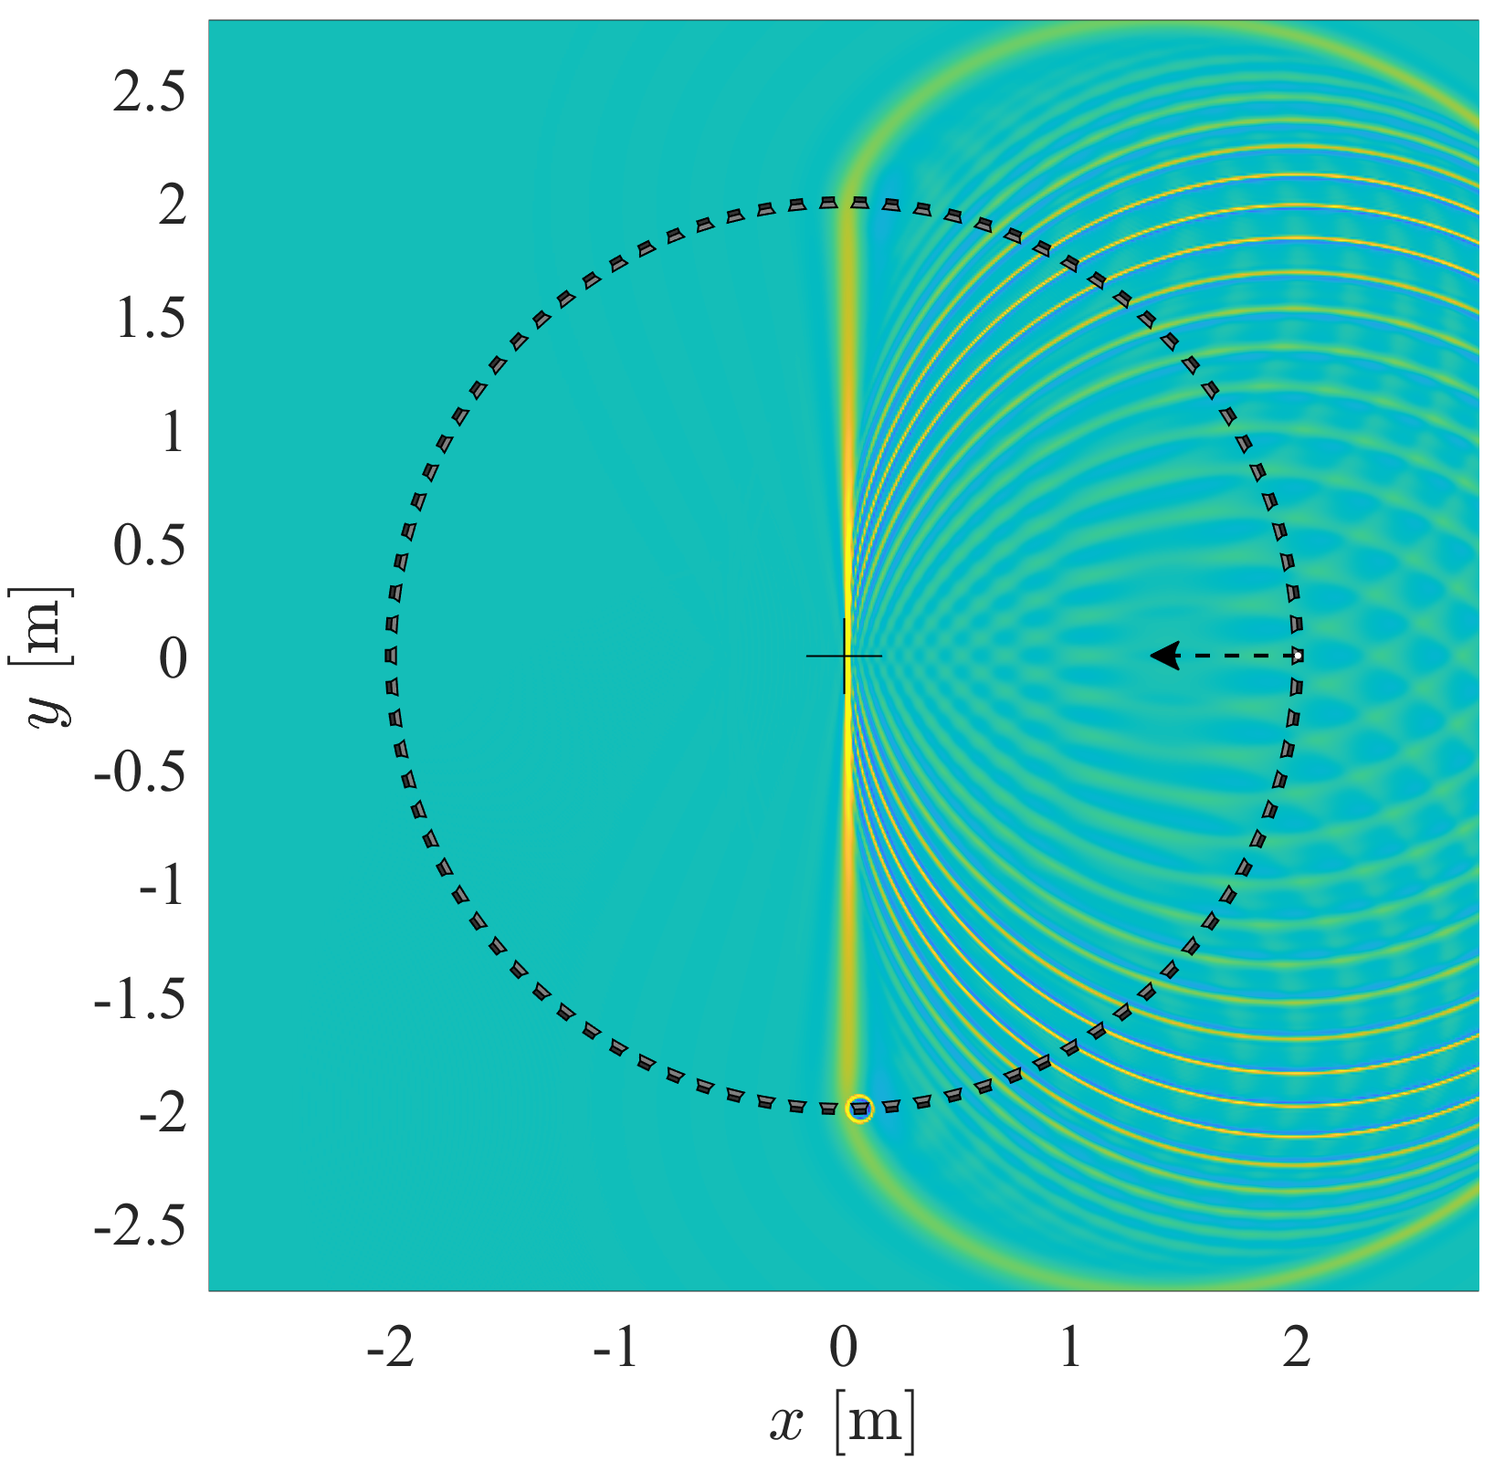
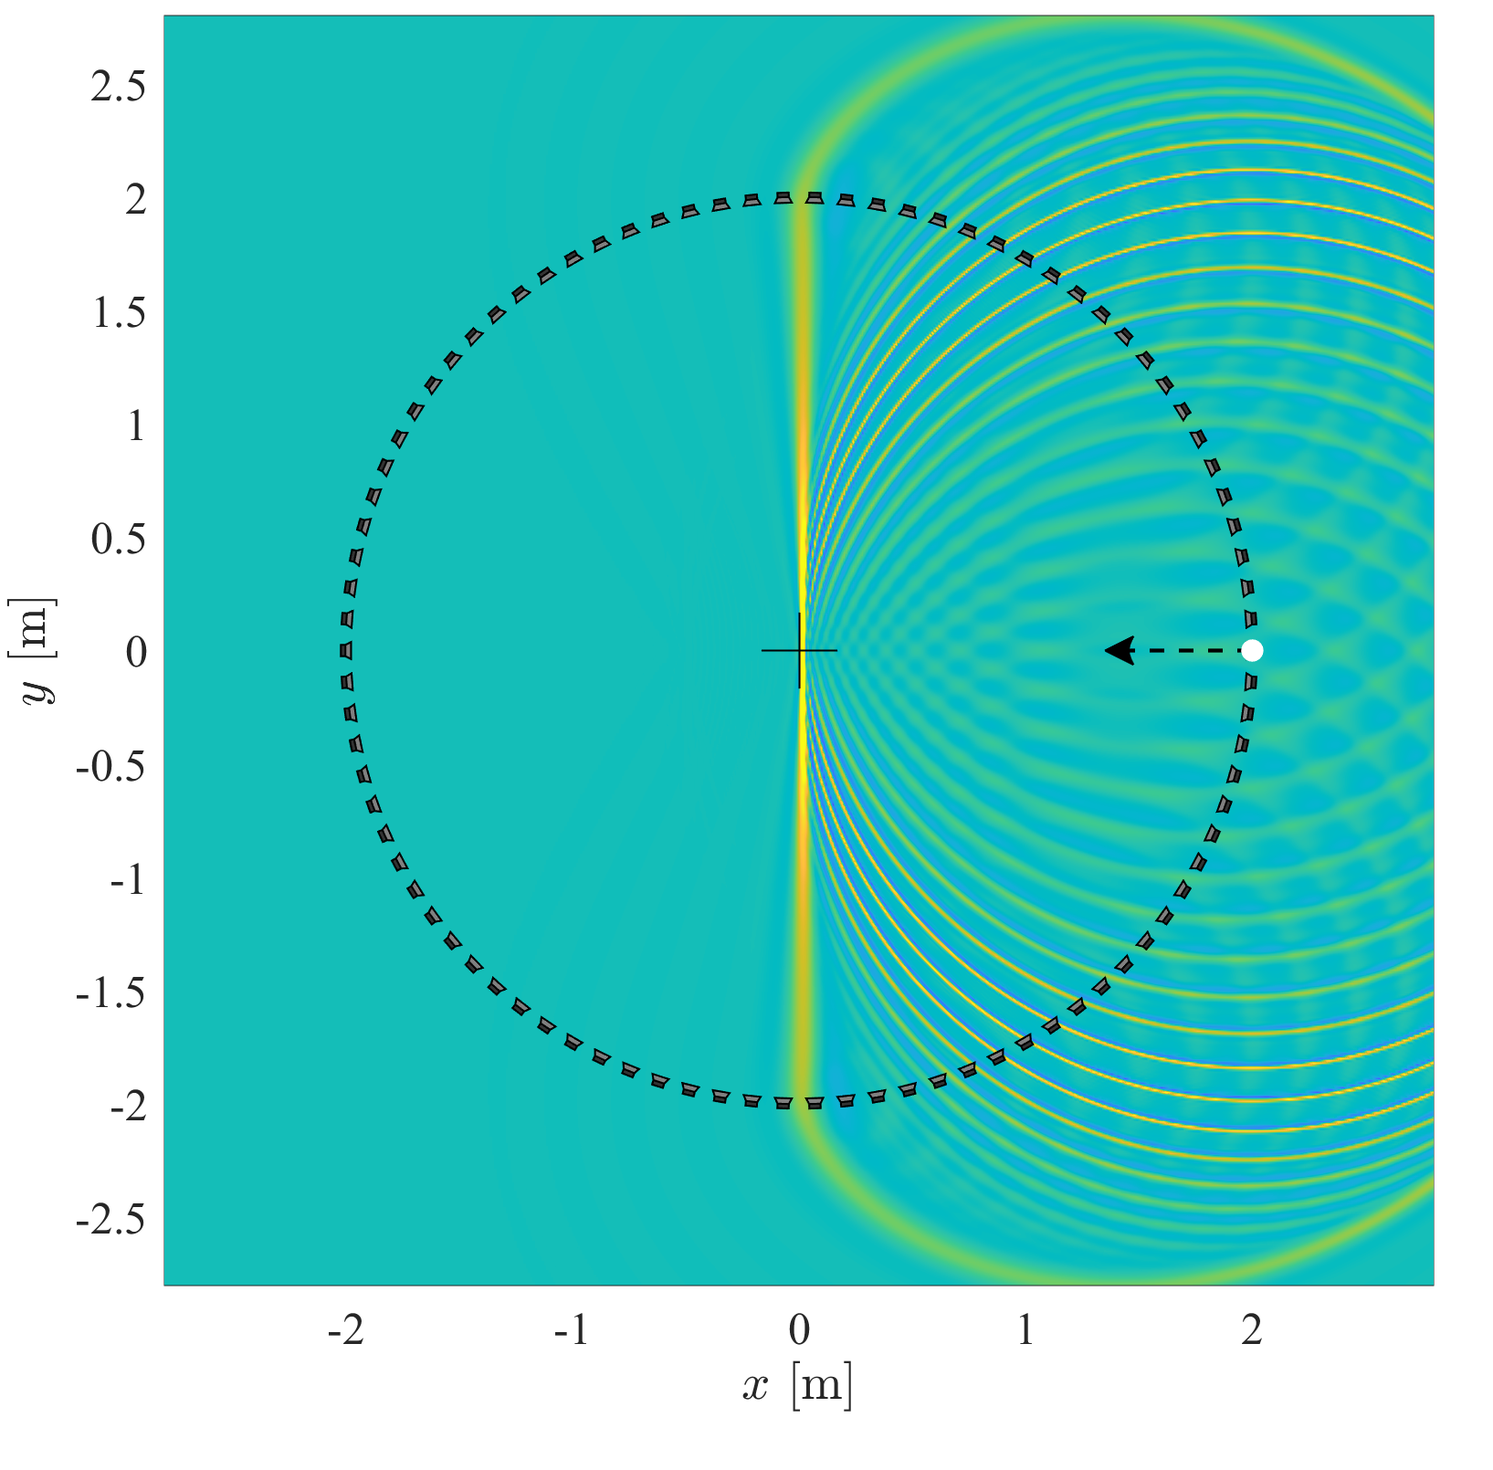
revision1

Changed region(s): [[0.0624, 0.0, 0.9982, 0.9938], [0.0, 0.4037, 0.0624, 0.4969]]

diff --git a/paper/main.tex b/paper/main.tex
@@ -66,7 +66,21 @@
 \section{Introduction}
 The aim of sound field synthesis is to reproduce a virtual target sound field over an extended listening area using a densely spaced loudspeaker arrangement, known as the secondary source distribution (SSD).
 By feeding the loudspeakers with specific driving functions, the superposition of sound fields from each SSD element should ideally match the target sound field in the intended receiving area.
-One prominent sound field synthesis method is Wave Field Synthesis (WFS) \cite{Berkhout1993:Acoustic_control_by_WFS, Start1997:phd}.%, which obtains the necessary driving functions from a suitable boundary integral representation of the target sound field.
+One prominent sound field synthesis method is Wave Field Synthesis (WFS) \cite{Berkhout1993:Acoustic_control_by_WFS, Start1997:phd}. 
+
+As WFS obtains the necessary driving functions from a suitable boundary integral representation of the target sound field, perfect phase correct field-reconstruction could be only achieved by employing a theoretical, continuous secondary source distribution.
+In practical applications the SSD constist of discrete loudspeaker elements, resulting in secondary wavefronts additionally to the intended virtual wavefront, emerging from the individual SSD elements, termed as aliasing waves.
+This spatial aliasing phenomena is perceived as the coloration of the synthesized sound field above the spatial aliasing frequency, varying with the listening position and the virtual wavefront direction, heavily degrading the quality of reproduction.
+
+The effect of aliasing can be mitigated by restricting the synthesis to a smaller control region inside the listening area at the cost of permitting stronger aliasing artifacts outside the control region.
+These anti-aliased WFS approaches are commonly referred to as Local Wave Field Synthesis (LWFS).
+Conventional LWFS approaches achieve increased local synthesis accuracy by the direct spatial bandlimitation of the WFS driving functions \cite{}.
+However, due to the high computational demand the real-time application of these LWFS approaches is not straightforward.
+
+The present contribution introduces a novel LWFS approach, relying merely on the temporal bandlimitation of the SSD driving functions.
+The temporal filters, defined uniquely for each SSD elements, are obtained from spatial antialiasing filters by means of an analytical spatial-to-temporal filter transformation, introduced by the current authors in a previous contribution \cite{firtha_daga}.
+Similarly to other LWFS techniques, the presented approach ensures aliasing-free synthesis at a predefined listening position at the cost of temporally bandlimited sound field at other listening regions.
+The results of the proposed approach are compared with a conventional LWFS approach employing direct spatial bandlimitation.
 
 \section{Theoretical basics}
 \subsection{The local propagation vector:}
@@ -95,13 +109,13 @@ The gradient of the eikonal is termed as the local propagation vector
 \begin{equation}
     \hat{\vk}^P(\vx) = \posvec{3}{\hat{k}_x^P(\vx)}{\hat{k}_y^P(\vx)}{\hat{k}_z^P(\vx)} = c \nabla \tau(\vx,\omega).
 \end{equation}
-In steady-state, the local propagation vector is perpendicular to the wavefront (equiphase positions) at an arbitrary location with unit length pointing towards the local propagation direction \cite{Firtha2016}.
+In steady-state, the local propagation vector is perpendicular to the wavefront (equiphase positions) at an arbitrary location of unit length pointing towards the local propagation direction \cite{Firtha2016}.
 In the temporal domain it points into the local propagation direction at the time instant of the wavefront passby.
 
 %For simplicity, in the followings we assume that all the involved fields propagate horizontally in the plane of investigation, i.e. $\hat{k}_z^P(x,y,0) = 0$.
 
 \subsection{Conventional 2.5D Wave Field Synthesis}
-Consider a smooth convex secondary source distribution located at $\vxo = \posvec{3}{x_0}{y_0}{0}$ consisting of a continuous distribution of 3D point sources, described by the 3D Green's function.
+Consider a smooth convex secondary source distribution located at $\vxo = \posvec{3}{x_0}{y_0}{0}$ consisting of a continuous distribution of 3D point sources, described by the 3D freefield Green's function.
 In this geometry the target field inside the area bounded by the SSD is described by the  Kirchhoff approximation of 2.5D Kirchhoff-Helmholtz integral, from which the 2.5D driving functions can be extracted.
 For an arbitrary simple target virtual sound field $P(\vxo,\omega)$ the steady-state driving functions read as \cite{Firtha2016}
 \begin{equation}
@@ -134,7 +148,7 @@ and in the time domain as
     \label{eq:d_wfs_td}
 \end{equation}
 with $A^D(\vxo)$ being the real valued overall gain factor of the driving function, $\ast_t$ denoting temporal convolution and $h_{\text{pre}}(t)$ is the temporal WFS prefilter impulse response.
-For an analytic FIR pre-equalization filter implementation the reader is referred to \cite{Schultz2016}.
+The analytical pre-equalization filter impulse response is given in \cite{Deregowski1983, Firtha2019phd}, while for an ideal FIR filter implementation the reader is referred to \cite{Schultz2016}.
 In the following due to the associativity of convolution this prefiltering is excluded from the discussion.
 
 \subsection{Aliasing artifacts in WFS}
@@ -155,7 +169,8 @@ In the following due to the associativity of convolution this prefiltering is ex
             \footnotesize \put(0,0){(d)}
         \end{overpic}
     \end{center}
-    \caption{fg}
+    \caption{The synthesized field and the spatial spectrum of the driving function in case of ideal, quasi-continuous SSD (a) and (c), and in case of a discretized SSD (b) and (d).
+    It is important ot note that the spatial spectrum depicts only the non-zero Fourier components (i.e. the Fourier series coefficients) normalized to the sampling wavenumber.}
     \label{Fig:aliasing}
 \end{figure*}
 Conventional WFS theory assumes a continuous secondary source distribution.
@@ -163,7 +178,7 @@ In practical applications the SSD is composed of evenly spaced discrete source e
 As a result, \emph{aliasing wavefronts} emerge from the individual secondary sources, following the intended virtual wavefront, leading to a \emph{spatial aliasing phenomena}.
 Although localization does not degrade due to the precedence effect, aliasing is perceived as strong coloration predominantly in the high-frequency region varying with the receiver position and the virtual source position/direction, occurring predominantly above the \emph{aliasing frequency}.
 
-Figure \ref{Fig:aliasing} illustrates spatial aliasing in the temporal domain through the example of the synthesis of an impulsive plane wave, arriving from $\phi_{\mathrm{PW}} = 0^{\circ}$, applying a discrete secondary source distribution in comparement with a quasi-continuous synthesis scenario.
+Figure \ref{Fig:aliasing} illustrates spatial aliasing in the temporal domain through the example of the synthesis of an impulsive plane wave, arriving from $\phi_{\mathrm{PW}} = 0^{\circ}$, applying a discrete secondary source distribution in comparison with a quasi-continuous synthesis scenario.
 In the current example the SSD is a circular one with the radius of $R_0 = 2~\mathrm{m}$, consisting of $N_0 = 90$ 3D point sources.
 The aliased synthesis in the temporal domain is depicted in Figure \ref{Fig:aliasing} (b).
 
@@ -171,7 +186,7 @@ Mathematically, aliasing can be modeled as the discretization of the theoretical
 Assume that a suitable parametrization $d(s,t)$ of the secondary source is given, e.g. the arc length $s = R_0\, \cos \phi$ in case of a circular SSD (where $\phi$ is the polar angle), or the linear position on an infinite long linear SSD.
 The discretization process is given by sampling the driving function by a sampling function, consisting of a series of Dirac-deltas in the actual secondary source positions:
 \begin{equation}
-    d_s(s,t) = \sum_{\nu = 0}^{N_0} d(s,t) \, \delta(s - \nu \Delta s) \, \Delta s,
+    d_s(s,t) = \sum_{\nu = 0}^{N_0-1} d(s,t) \, \delta(s - \nu \Delta s) \, \Delta s,
     \label{eq:sampling_td}
 \end{equation}
 where $\Delta s$ is the sampling arc length.
@@ -182,7 +197,7 @@ By investigating the sampling process in the frequency-wavenumber domain, the sp
     \label{eq:sampling_fd}
 \end{equation}
 where $t \rightarrow \omega$ and $s \rightarrow k_s$ are Fourier-transform pairs.
-Obviously, for a closed SSD contour the continuous spatial Fourier-transform yields a discrete spectrum, consisting of non-zero components only on the multiples of the spatial wavenumber, i.e. at
+Obviously, for a closed SSD contour (most notablz for a circular SSD) the continuous spatial Fourier-transform yields a discrete spectrum, consisting of non-zero components only on the multiples of the spatial wavenumber, i.e. at
 \begin{equation}
     k_s = \frac{m}{R_0},
 \end{equation}
@@ -194,7 +209,7 @@ Figure \ref{Fig:aliasing} (c) and (d) illustrate the quasi-continuous and the sa
 From \eqref{eq:sampling_fd} it can be concluded that due to spatial sampling, the wavenumber content of the driving function is repeated on the multiples of the sampling wavenumber $k_{s, \mathrm{s}} = \frac{2\pi}{\Delta s}$.
 Since the conventional driving functions are not-bandlimited, therefore, the repeating spectra will overlap above the Nyquist wavenumber $k_{s, \mathrm{Nyq}} = \frac{\pi}{\Delta s}$, for which the corresponding angular frequency is the aliasing frequency of the discretization scheme, as depicted in \ref{Fig:aliasing} (d).
 
-Obviously, spatial aliasing can be avoided by analytically spatial-bandlimiting the driving functions to the Nyquist wavenumber.
+According to the sampling theorem, spatial aliasing can be avoided by analytically spatial-bandlimiting the driving functions to the Nyquist wavenumber.
 This can be performed by either spatially filtering the driving functions with an appropriate spatial low-pass filter prior to numerical evaluation, or performing bandlimitation directly in the wavenumber (modal) domain analytically.
 The latter approach is implemented by \cite{Nara and Fiete}, and will serve as a reference solution in the following investigation.
 However, the modal bandlimitation solution is available only for plane wave and point source virtual source models synthesized by a circular SSD, at the cost of increased computational complexity.
@@ -205,7 +220,8 @@ The technique relies on an analytic transform of spatially defined antialiasing 
 \section{Time domain antialiasing filter}
 
 \subsection{Spatial to temporal filter transform}
-First, a general transformation is introduced allowing the transform of an arbitrary spatial filter to an equivalent temporal filter set.
+First, a general analytical approach is introduced allowing the transform of an arbitrary spatial filter to an equivalent temporal filter set.
+From herein, subscript $x$ and $t$ distinguishes wether a filter is defined as a spatial or the temporal filters, respectively.
 
 Assume an arbitrary filter impulse response defined in the spatial domain, denoted by $h_x(s)$.
 Again, $s$ is a suitable parametrization of the SSD contour.
@@ -284,7 +300,7 @@ As a further general WFS assumption it is supposed that the SSD is locally plane
 These requirements inherently ensure that a single solution exists for \eqref{eq:zero}\footnote{Except for a plane wave arriving normally to the SSD, at which case the temporal filter is transformed into a Dirac-delta.}.
 With these assumptions the phase function is given as
 \begin{equation}
-    \tau(\vx) = \hat{k}^P_x(\vx)x +  \hat{k}^P_y(\vx) y
+    \tau(\vx) = \hat{k}^P_x(\vx) \, x +  \hat{k}^P_y(\vx) \, y
 \end{equation}
 and \eqref{eq:zero} is satisfied where
 \begin{equation}
@@ -308,19 +324,19 @@ where $k_t^P(s)$ is the tangential component of the local wavenumber vector, bei
 Hence, as the main result of the present discussion, the temporal filter transfer can be obtained from the wavenumber (modal) content of the spatial filter by simple rescaling in terms of the local wavenumber vector.
 
 The validity and the error analysis of the above filter transform was investigated in details in \cite{Firtha DAGA2023}.
-In the following the direct application for Local WFS is discussed.
+In the following the direct application for local WFS is discussed.
 
 \subsection{Application for antialiasing filtering}
 
-From Figure \ref{Fig:aliasing} (d) it is obvious, that the overlapping of the sampled driving function spectra, and, therefore, the presence of aliasing waves can be avoided by spatially bandlimiting the driving functions to the Nyquist wavenumber prior to sampling.
-Spatial bandlimitation can be easily performed by designing a suitable spatial antialiasing filter and transforming it into an equivalent temporal filter bank, based on the results of the previous section.
+Figure \ref{Fig:aliasing} (d) reflects that the overlapping of the sampled driving function spectra, and, therefore, the presence of aliasing waves can be avoided by spatially bandlimiting the driving functions to the Nyquist wavenumber prior to sampling.
+Spatial bandlimitation can be straightforwardly performed by designing a suitable spatial antialiasing filter and transforming it into an equivalent temporal filter bank, based on the results of the previous section.
 An important advantage of the above temporal filtering is that the driving functions may be evaluated in the discrete SSD positions, and a subsequent temporal antialiasing inherently ensures analytical spatial bandlimitation.
 
 Spectral overlapping can be avoided by bandlimiting the driving function to the sampling wavenumber $k_{s,\mathrm{s}} = \frac{2\pi}{\Delta s}$, with either symmetrically to $k_s = 0$ or by choosing an arbitrary central wavenumber $k_{s,0}$.
 First the former case is investigated in details.
 
 \subsubsection{Symmetrical antialiasing}
-As the simplest antialiasing strategy, the spectral overlapping is avoided by the spatial lowpass filtering of the driving functions to the Nyquist wavenumber, $k_{s,\mathrm{Nyq}} = \frac{\pi}{\Delta s}$.
+As the most straightforward antialiasing strategy, the spectral overlapping is avoided by the spatial lowpass filtering of the driving functions to the Nyquist wavenumber, $k_{s,\mathrm{Nyq}} = \frac{\pi}{\Delta s}$.
 
 The effect of symmetrical bandlimitation is demonstrated via the exemplary low pass filter chosen to be an $N$-th order Butterworth design, defined in the wavenumber domain as
 \begin{equation}
@@ -336,10 +352,11 @@ with
     \omega_c(s) = c \frac{k_{s,\mathrm{Nyq}}}{\hat{k}_t^P(s)} = c\frac{ \pi}{\Delta s} \frac{1}{\hat{k}_t^P(s)}.
     \label{eq:cutoff_fr}
 \end{equation}
-Therefore, the cut-off frequency of the equivalent low-pass filter on a given SSD element is directly determined by the tangential component of the local propagation vector.
+Therefore, the cut-off frequency of the equivalent low-pass filter on a given SSD element is inversely proportional to the tangential component of the local propagation vector.
 
 The result of antialiasing filtering is depicted in Figure \ref{Fig:symm_antialiasing} for the synthesis scenario discussed in the foregoing.
-In the present case the sampling arc length is given by $\Delta s = \frac{2 \pi R_0}{N}$, i.e. the space-dependent cut-off frequency reads as\begin{equation}
+In the present case the sampling arc length is given by $\Delta s = \frac{2 \pi R_0}{N}$, i.e. the space-dependent cut-off frequency reads as 
+\begin{equation}
     \omega_c(s) = \frac{ N}{ 2 R_0 } \frac{c}{\hat{k}_t^P(s)}.
 \end{equation}
 The antialiasing filters were a 4-th order Butterworth deisgn.
@@ -347,7 +364,7 @@ The antialiasing filters were a 4-th order Butterworth deisgn.
 Figure (a) shows the result of the synthesis, while Figure (b) illustrates the spectrum of the bandlimited, sampled driving functions.
 \begin{figure}[h!]
     \begin{center}
-        \begin{overpic}[width = 0.75\columnwidth]{figs/antialiased_synthesis.png}
+        \begin{overpic}[width = 0.75\columnwidth]{figs/firtha_center.png}
             \footnotesize \put(0,2){(a)}
         \end{overpic}
         \\
@@ -355,19 +372,19 @@ Figure (a) shows the result of the synthesis, while Figure (b) illustrates the s
             \footnotesize \put(0,0){(b)}
         \end{overpic}
     \end{center}
-    \caption{Symmetric antialiasing filtering}
+    \caption{Symmetric antialiasing filtering. Figure (a) depicts the synthesized wave front, and (b) illustrates the spatial spectrum of the driving functions.}
     \label{Fig:symm_antialiasing}
 \end{figure}
-It is highlighted, that the presented antialiasing strategy ensures highly suppressed aliasing waves in the center of the circular source array.
+It is highlighted that the presented antialiasing strategy ensures suppressed aliasing waves in the center of the circular source array.
 In other positions of the listening area lateral aliasing wavefronts remain in the reproduced wave field, while the target, virtual wave front is bandlimited.
 This phenomena can be easily understood by investigating the synthesis scenario in a geometrical manner:
 
-From \eqref{eq:cutoff_fr} it is clear that since the antialiasing filter cutoff frequency is proportional to the tangential component of the virtual field on the SSD, therefore, in a circualr array a single SSD element will have nearly fullband driving signal: that SSD element at which the wavefront arrives perpendicularly.
+Since the cutoff frequency of the antialiasing filter (Eq. \eqref{eq:cutoff_fr} ) is inversely proportional to the tangential component of the virtual field on the SSD, therefore, in a circular array a single SSD element will have nearly fullband driving signal: that SSD element at which the wavefront arrives perpendicularly.
 This fullband SSD element is marked with white dot in Figure \ref{Fig:symm_antialiasing} (a).
 From general WFS theory it is known that the fullband SSD element will dominate the synthesized wavefront (i.e. will serve as a stationary SSD position) for spatial positions along a straight line crossing the actual SSD element into the direction of the local propagation vector.
 Therefore, the present antialiasing strategy ensures aliasing-free synthesis along a straight line for which the fullband SSD element is the stationary secondary source.
 The direction of the line of aliasing-free synthesis is marked with a dashed arrow in the figure.
-This is in contrast with conventional Local WFS approaches, in which the synthesis is optimized in the proximity of a pre-defined reference position over a circular area.
+This is in contrast with previous local WFS approaches, in which the synthesis is optimized in the proximity of a pre-defined reference position over a circular area.
 
 It should be noted that the presented spatial-to-temporal filter transform strategy can be also interpreted as a frequency dependent spatial windowing approach:
 in the aspect of antialiasing filtering SSD positions where the local wavenumber vector is higher than the Nyquist wavenumber are highly attenuated, with the window width decreasing with increasing angular frequency.
@@ -388,8 +405,7 @@ In the present case the spatial bandpass filter is derived by shifting the $N$-t
 \begin{equation}
     H_x(k_s, \omega) = \frac{ 1 }{ \sqrt{ 1 + \left( \frac{k_s-k_{s,0}(\omega)}{k_{s,\mathrm{Nyq}} }\right)^{2N} } }.
 \end{equation}
-Note, that in this case even the spatial filters are frequency dependent.
-This seemingly pointless assumption ensures later that the transformed temporal filters remain time-invariant.
+Note, that in this case even the spatial filters are frequency dependent, in order to ensure that the transformed temporal filters remain time-invariant, as explained in the followings.
 
 Again, an equivalent filter bank is derived by using the transform \eqref{eq:frequency_transform}, resulting in the frequency response of
 \begin{equation}
@@ -404,7 +420,7 @@ where $\hat{k}_{s,0}$ is the normalized center wavenumber and with
 
 \begin{figure}[h!]
     \begin{center}
-        \begin{overpic}[width = 0.75\columnwidth]{figs/antialiased_synthesis_steered.png}
+        \begin{overpic}[width = 0.75\columnwidth]{figs/firtha_left.png}
             \footnotesize \put(0,2){(a)}
         \end{overpic}
         \\
@@ -412,7 +428,7 @@ where $\hat{k}_{s,0}$ is the normalized center wavenumber and with
             \footnotesize \put(0,0){(b)}
         \end{overpic}
     \end{center}
-    \caption{Non-symmetric antialiasing filtering}
+    \caption{Non-symmetric antialiasing filtering. Figure (a) depicts the synthesized wave front, and (b) illustrates the spatial spectrum of the driving functions.}
     \label{Fig:assymm_antialiasing}
 \end{figure}
 The application of the above formulation with an arbitrarily chosen center wavenumber $\hat{k}_{s,0} = 0.5$ is depicted in Figure \ref{Fig:assymm_antialiasing}.
